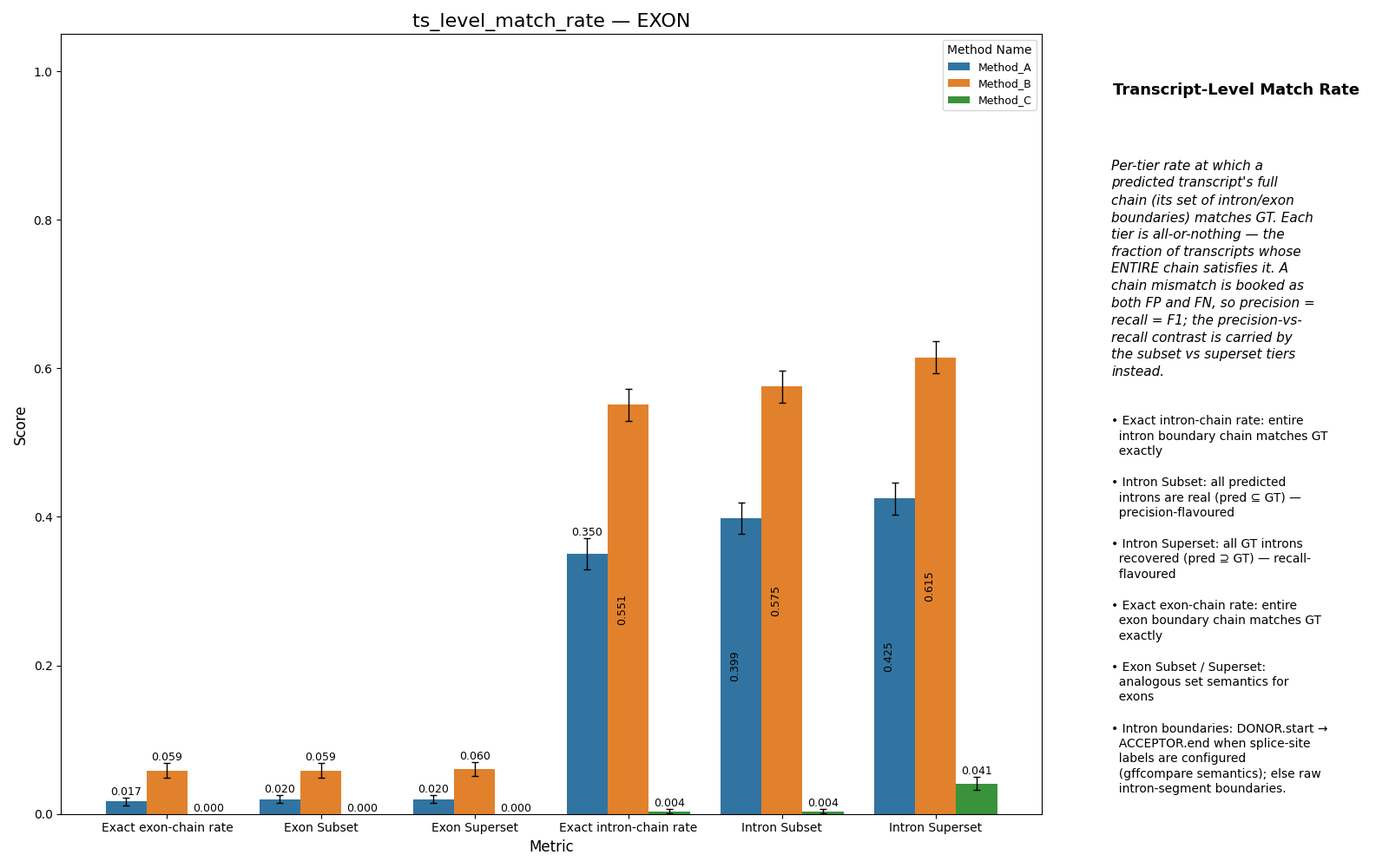
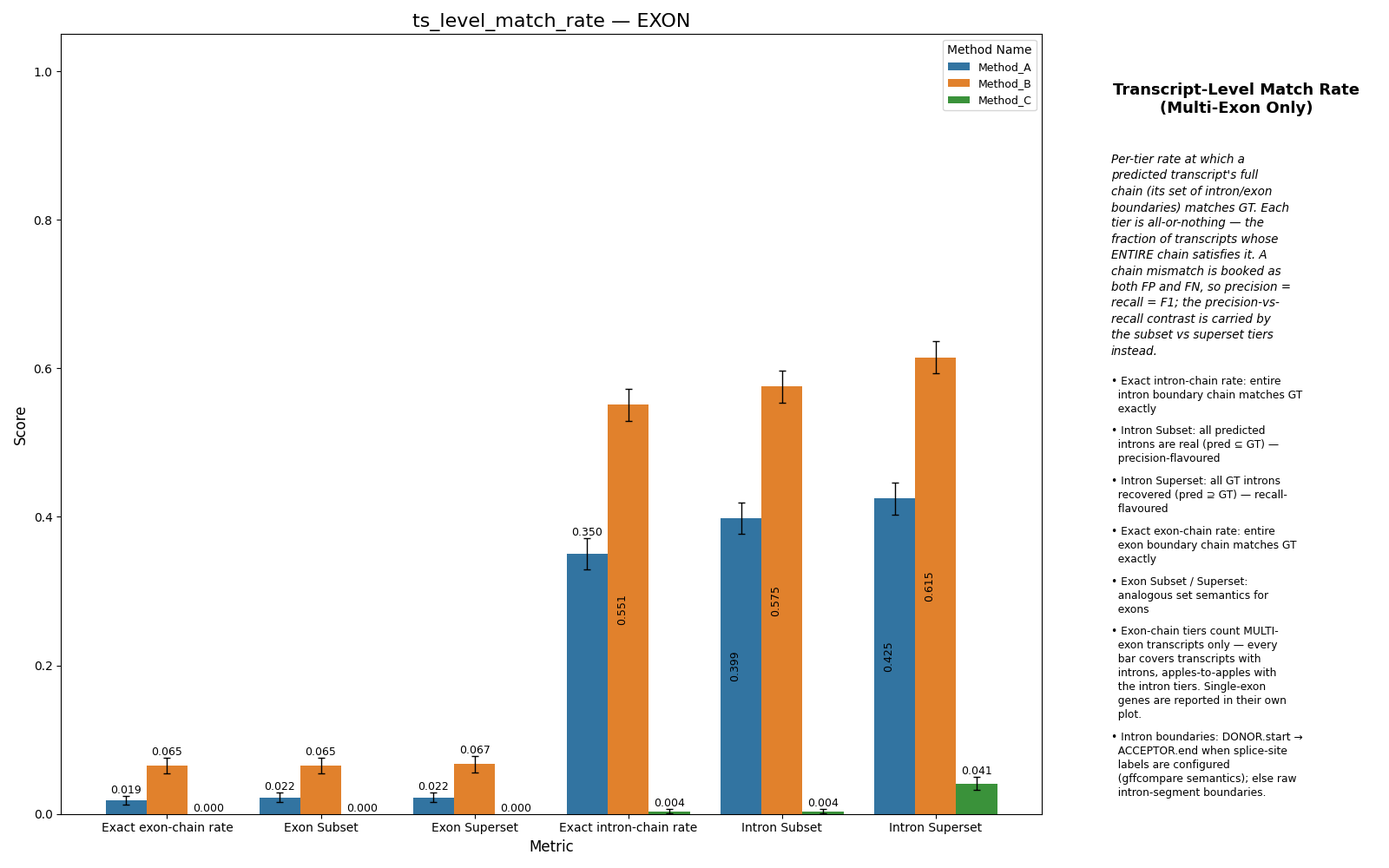
exclude single exon genes into seperate plot and keep exon chain to intron chain rates comparable

diff --git a/tests/benchmark_test_cases.py b/tests/benchmark_test_cases.py
@@ -297,7 +297,7 @@ STRUCTURAL_COHERENCE_TEST_CASES = [
         BEND_LABEL_CONFIG,
         [EvalMetrics.STRUCTURAL_COHERENCE],
         {
-            "STRUCTURAL_COHERENCE": {"exon_chain": {"tp": 1, "fp": 0, "fn": 0, "tn": 0}, "exon_chain_subset": {"tp": 1, "fp": 0, "fn": 0, "tn": 0}, "exon_chain_superset": {"tp": 1, "fp": 0, "fn": 0, "tn": 0}, "boundary_shift_count": 0, "boundary_shift_total": 0, "boundary_shift_offsets": [], "exon_recall_per_transcript": 1.0, "exon_precision_per_transcript": 1.0, "false_exon_count_per_transcript": 0, "transcript_match_class": 'exact', "segment_count_delta": 0, "intron_chain": {"tp": 1, "fp": 0, "fn": 0, "tn": 0}, "intron_chain_subset": {"tp": 1, "fp": 0, "fn": 0, "tn": 0}, "intron_chain_superset": {"tp": 1, "fp": 0, "fn": 0, "tn": 0}, "splice_site_results": {"both_correct": 0, "donor_only": 0, "acceptor_only": 0, "neither": 0, "donor_tp": 0, "donor_fp": 0, "donor_fn": 0, "acceptor_tp": 0, "acceptor_fp": 0, "acceptor_fn": 0, "gt_malformed_junctions": 0, "pred_malformed_junctions": 0}},
+            "STRUCTURAL_COHERENCE": {"exon_chain": {"tp": 1, "fp": 0, "fn": 0, "tn": 0}, "exon_chain_subset": {"tp": 1, "fp": 0, "fn": 0, "tn": 0}, "exon_chain_superset": {"tp": 1, "fp": 0, "fn": 0, "tn": 0}, "exon_chain_multi": {"tp": 1, "fp": 0, "fn": 0, "tn": 0}, "exon_chain_multi_subset": {"tp": 1, "fp": 0, "fn": 0, "tn": 0}, "exon_chain_multi_superset": {"tp": 1, "fp": 0, "fn": 0, "tn": 0}, "exon_chain_single": {"tp": 0, "fp": 0, "fn": 0, "tn": 0}, "boundary_shift_count": 0, "boundary_shift_total": 0, "boundary_shift_offsets": [], "exon_recall_per_transcript": 1.0, "exon_precision_per_transcript": 1.0, "false_exon_count_per_transcript": 0, "transcript_match_class": 'exact', "segment_count_delta": 0, "intron_chain": {"tp": 1, "fp": 0, "fn": 0, "tn": 0}, "intron_chain_subset": {"tp": 1, "fp": 0, "fn": 0, "tn": 0}, "intron_chain_superset": {"tp": 1, "fp": 0, "fn": 0, "tn": 0}, "splice_site_results": {"both_correct": 0, "donor_only": 0, "acceptor_only": 0, "neither": 0, "donor_tp": 0, "donor_fp": 0, "donor_fn": 0, "acceptor_tp": 0, "acceptor_fp": 0, "acceptor_fn": 0, "gt_malformed_junctions": 0, "pred_malformed_junctions": 0}},
         },
         id='sc_exact_match',
     ),
@@ -306,7 +306,7 @@ STRUCTURAL_COHERENCE_TEST_CASES = [
         BEND_LABEL_CONFIG,
         [EvalMetrics.STRUCTURAL_COHERENCE],
         {
-            "STRUCTURAL_COHERENCE": {"exon_chain": {"tp": 0, "fp": 1, "fn": 1, "tn": 0}, "exon_chain_subset": {"tp": 0, "fp": 1, "fn": 1, "tn": 0}, "exon_chain_superset": {"tp": 0, "fp": 1, "fn": 1, "tn": 0}, "boundary_shift_count": 3, "boundary_shift_total": 3, "boundary_shift_offsets": [{"offset": -1, "position": "terminal"}, {"offset": -1, "position": "internal"}, {"offset": 1, "position": "terminal"}], "exon_recall_per_transcript": 0.0, "exon_precision_per_transcript": 0.0, "false_exon_count_per_transcript": 3, "transcript_match_class": 'boundary_shift_terminal', "segment_count_delta": 0, "intron_chain": {"tp": 0, "fp": 1, "fn": 1, "tn": 0}, "intron_chain_subset": {"tp": 0, "fp": 1, "fn": 1, "tn": 0}, "intron_chain_superset": {"tp": 0, "fp": 1, "fn": 1, "tn": 0}, "splice_site_results": {"both_correct": 0, "donor_only": 0, "acceptor_only": 0, "neither": 0, "donor_tp": 0, "donor_fp": 0, "donor_fn": 0, "acceptor_tp": 0, "acceptor_fp": 0, "acceptor_fn": 0, "gt_malformed_junctions": 0, "pred_malformed_junctions": 0}},
+            "STRUCTURAL_COHERENCE": {"exon_chain": {"tp": 0, "fp": 1, "fn": 1, "tn": 0}, "exon_chain_subset": {"tp": 0, "fp": 1, "fn": 1, "tn": 0}, "exon_chain_superset": {"tp": 0, "fp": 1, "fn": 1, "tn": 0}, "exon_chain_multi": {"tp": 0, "fp": 1, "fn": 1, "tn": 0}, "exon_chain_multi_subset": {"tp": 0, "fp": 1, "fn": 1, "tn": 0}, "exon_chain_multi_superset": {"tp": 0, "fp": 1, "fn": 1, "tn": 0}, "exon_chain_single": {"tp": 0, "fp": 0, "fn": 0, "tn": 0}, "boundary_shift_count": 3, "boundary_shift_total": 3, "boundary_shift_offsets": [{"offset": -1, "position": "terminal"}, {"offset": -1, "position": "internal"}, {"offset": 1, "position": "terminal"}], "exon_recall_per_transcript": 0.0, "exon_precision_per_transcript": 0.0, "false_exon_count_per_transcript": 3, "transcript_match_class": 'boundary_shift_terminal', "segment_count_delta": 0, "intron_chain": {"tp": 0, "fp": 1, "fn": 1, "tn": 0}, "intron_chain_subset": {"tp": 0, "fp": 1, "fn": 1, "tn": 0}, "intron_chain_superset": {"tp": 0, "fp": 1, "fn": 1, "tn": 0}, "splice_site_results": {"both_correct": 0, "donor_only": 0, "acceptor_only": 0, "neither": 0, "donor_tp": 0, "donor_fp": 0, "donor_fn": 0, "acceptor_tp": 0, "acceptor_fp": 0, "acceptor_fn": 0, "gt_malformed_junctions": 0, "pred_malformed_junctions": 0}},
         },
         id='sc_boundary_shift',
     ),
@@ -315,7 +315,7 @@ STRUCTURAL_COHERENCE_TEST_CASES = [
         BEND_LABEL_CONFIG,
         [EvalMetrics.STRUCTURAL_COHERENCE],
         {
-            "STRUCTURAL_COHERENCE": {"exon_chain": {"tp": 0, "fp": 1, "fn": 1, "tn": 0}, "exon_chain_subset": {"tp": 1, "fp": 0, "fn": 0, "tn": 0}, "exon_chain_superset": {"tp": 0, "fp": 1, "fn": 1, "tn": 0}, "boundary_shift_count": 0, "boundary_shift_total": 0, "boundary_shift_offsets": [], "exon_recall_per_transcript": 0.6666666666666666, "exon_precision_per_transcript": 1.0, "false_exon_count_per_transcript": 0, "transcript_match_class": 'missing_segments', "segment_count_delta": -1, "intron_chain": {"tp": 0, "fp": 1, "fn": 1, "tn": 0}, "intron_chain_subset": {"tp": 0, "fp": 1, "fn": 1, "tn": 0}, "intron_chain_superset": {"tp": 0, "fp": 1, "fn": 1, "tn": 0}, "splice_site_results": {"both_correct": 0, "donor_only": 0, "acceptor_only": 0, "neither": 0, "donor_tp": 0, "donor_fp": 0, "donor_fn": 0, "acceptor_tp": 0, "acceptor_fp": 0, "acceptor_fn": 0, "gt_malformed_junctions": 0, "pred_malformed_junctions": 0}},
+            "STRUCTURAL_COHERENCE": {"exon_chain": {"tp": 0, "fp": 1, "fn": 1, "tn": 0}, "exon_chain_subset": {"tp": 1, "fp": 0, "fn": 0, "tn": 0}, "exon_chain_superset": {"tp": 0, "fp": 1, "fn": 1, "tn": 0}, "exon_chain_multi": {"tp": 0, "fp": 1, "fn": 1, "tn": 0}, "exon_chain_multi_subset": {"tp": 1, "fp": 0, "fn": 0, "tn": 0}, "exon_chain_multi_superset": {"tp": 0, "fp": 1, "fn": 1, "tn": 0}, "exon_chain_single": {"tp": 0, "fp": 0, "fn": 0, "tn": 0}, "boundary_shift_count": 0, "boundary_shift_total": 0, "boundary_shift_offsets": [], "exon_recall_per_transcript": 0.6666666666666666, "exon_precision_per_transcript": 1.0, "false_exon_count_per_transcript": 0, "transcript_match_class": 'missing_segments', "segment_count_delta": -1, "intron_chain": {"tp": 0, "fp": 1, "fn": 1, "tn": 0}, "intron_chain_subset": {"tp": 0, "fp": 1, "fn": 1, "tn": 0}, "intron_chain_superset": {"tp": 0, "fp": 1, "fn": 1, "tn": 0}, "splice_site_results": {"both_correct": 0, "donor_only": 0, "acceptor_only": 0, "neither": 0, "donor_tp": 0, "donor_fp": 0, "donor_fn": 0, "acceptor_tp": 0, "acceptor_fp": 0, "acceptor_fn": 0, "gt_malformed_junctions": 0, "pred_malformed_junctions": 0}},
         },
         id='sc_missing_segments',
     ),
@@ -324,7 +324,7 @@ STRUCTURAL_COHERENCE_TEST_CASES = [
         BEND_LABEL_CONFIG,
         [EvalMetrics.STRUCTURAL_COHERENCE],
         {
-            "STRUCTURAL_COHERENCE": {"exon_chain": {"tp": 0, "fp": 1, "fn": 1, "tn": 0}, "exon_chain_subset": {"tp": 0, "fp": 1, "fn": 1, "tn": 0}, "exon_chain_superset": {"tp": 1, "fp": 0, "fn": 0, "tn": 0}, "boundary_shift_count": 0, "boundary_shift_total": 0, "boundary_shift_offsets": [], "exon_recall_per_transcript": 1.0, "exon_precision_per_transcript": 0.6666666666666666, "false_exon_count_per_transcript": 1, "transcript_match_class": 'extra_segments', "segment_count_delta": 1, "intron_chain": {"tp": 0, "fp": 1, "fn": 1, "tn": 0}, "intron_chain_subset": {"tp": 0, "fp": 1, "fn": 1, "tn": 0}, "intron_chain_superset": {"tp": 0, "fp": 1, "fn": 1, "tn": 0}, "splice_site_results": {"both_correct": 0, "donor_only": 0, "acceptor_only": 0, "neither": 0, "donor_tp": 0, "donor_fp": 0, "donor_fn": 0, "acceptor_tp": 0, "acceptor_fp": 0, "acceptor_fn": 0, "gt_malformed_junctions": 0, "pred_malformed_junctions": 0}},
+            "STRUCTURAL_COHERENCE": {"exon_chain": {"tp": 0, "fp": 1, "fn": 1, "tn": 0}, "exon_chain_subset": {"tp": 0, "fp": 1, "fn": 1, "tn": 0}, "exon_chain_superset": {"tp": 1, "fp": 0, "fn": 0, "tn": 0}, "exon_chain_multi": {"tp": 0, "fp": 1, "fn": 1, "tn": 0}, "exon_chain_multi_subset": {"tp": 0, "fp": 1, "fn": 1, "tn": 0}, "exon_chain_multi_superset": {"tp": 1, "fp": 0, "fn": 0, "tn": 0}, "exon_chain_single": {"tp": 0, "fp": 0, "fn": 0, "tn": 0}, "boundary_shift_count": 0, "boundary_shift_total": 0, "boundary_shift_offsets": [], "exon_recall_per_transcript": 1.0, "exon_precision_per_transcript": 0.6666666666666666, "false_exon_count_per_transcript": 1, "transcript_match_class": 'extra_segments', "segment_count_delta": 1, "intron_chain": {"tp": 0, "fp": 1, "fn": 1, "tn": 0}, "intron_chain_subset": {"tp": 0, "fp": 1, "fn": 1, "tn": 0}, "intron_chain_superset": {"tp": 0, "fp": 1, "fn": 1, "tn": 0}, "splice_site_results": {"both_correct": 0, "donor_only": 0, "acceptor_only": 0, "neither": 0, "donor_tp": 0, "donor_fp": 0, "donor_fn": 0, "acceptor_tp": 0, "acceptor_fp": 0, "acceptor_fn": 0, "gt_malformed_junctions": 0, "pred_malformed_junctions": 0}},
         },
         id='sc_extra_segments',
     ),
@@ -333,7 +333,7 @@ STRUCTURAL_COHERENCE_TEST_CASES = [
         BEND_LABEL_CONFIG,
         [EvalMetrics.STRUCTURAL_COHERENCE],
         {
-            "STRUCTURAL_COHERENCE": {"exon_chain": {"tp": 0, "fp": 1, "fn": 1, "tn": 0}, "exon_chain_subset": {"tp": 0, "fp": 1, "fn": 1, "tn": 0}, "exon_chain_superset": {"tp": 0, "fp": 1, "fn": 1, "tn": 0}, "boundary_shift_count": 0, "boundary_shift_total": 0, "boundary_shift_offsets": [], "exon_recall_per_transcript": 0.0, "exon_precision_per_transcript": 0.0, "false_exon_count_per_transcript": 2, "transcript_match_class": 'substitution', "segment_count_delta": -1, "intron_chain": {"tp": 0, "fp": 1, "fn": 1, "tn": 0}, "intron_chain_subset": {"tp": 0, "fp": 1, "fn": 1, "tn": 0}, "intron_chain_superset": {"tp": 0, "fp": 1, "fn": 1, "tn": 0}, "splice_site_results": {"both_correct": 0, "donor_only": 0, "acceptor_only": 0, "neither": 0, "donor_tp": 0, "donor_fp": 0, "donor_fn": 0, "acceptor_tp": 0, "acceptor_fp": 0, "acceptor_fn": 0, "gt_malformed_junctions": 0, "pred_malformed_junctions": 0}},
+            "STRUCTURAL_COHERENCE": {"exon_chain": {"tp": 0, "fp": 1, "fn": 1, "tn": 0}, "exon_chain_subset": {"tp": 0, "fp": 1, "fn": 1, "tn": 0}, "exon_chain_superset": {"tp": 0, "fp": 1, "fn": 1, "tn": 0}, "exon_chain_multi": {"tp": 0, "fp": 1, "fn": 1, "tn": 0}, "exon_chain_multi_subset": {"tp": 0, "fp": 1, "fn": 1, "tn": 0}, "exon_chain_multi_superset": {"tp": 0, "fp": 1, "fn": 1, "tn": 0}, "exon_chain_single": {"tp": 0, "fp": 0, "fn": 0, "tn": 0}, "boundary_shift_count": 0, "boundary_shift_total": 0, "boundary_shift_offsets": [], "exon_recall_per_transcript": 0.0, "exon_precision_per_transcript": 0.0, "false_exon_count_per_transcript": 2, "transcript_match_class": 'substitution', "segment_count_delta": -1, "intron_chain": {"tp": 0, "fp": 1, "fn": 1, "tn": 0}, "intron_chain_subset": {"tp": 0, "fp": 1, "fn": 1, "tn": 0}, "intron_chain_superset": {"tp": 0, "fp": 1, "fn": 1, "tn": 0}, "splice_site_results": {"both_correct": 0, "donor_only": 0, "acceptor_only": 0, "neither": 0, "donor_tp": 0, "donor_fp": 0, "donor_fn": 0, "acceptor_tp": 0, "acceptor_fp": 0, "acceptor_fn": 0, "gt_malformed_junctions": 0, "pred_malformed_junctions": 0}},
         },
         id='sc_structurally_different',
     ),
@@ -342,7 +342,7 @@ STRUCTURAL_COHERENCE_TEST_CASES = [
         BEND_LABEL_CONFIG,
         [EvalMetrics.STRUCTURAL_COHERENCE],
         {
-            "STRUCTURAL_COHERENCE": {"exon_chain": {"tp": 0, "fp": 1, "fn": 1, "tn": 0}, "exon_chain_subset": {"tp": 0, "fp": 1, "fn": 1, "tn": 0}, "exon_chain_superset": {"tp": 0, "fp": 1, "fn": 1, "tn": 0}, "boundary_shift_count": 0, "boundary_shift_total": 0, "boundary_shift_offsets": [], "exon_recall_per_transcript": 0.0, "exon_precision_per_transcript": 0.0, "false_exon_count_per_transcript": 0, "transcript_match_class": 'missed', "segment_count_delta": -2, "intron_chain": {"tp": 0, "fp": 1, "fn": 1, "tn": 0}, "intron_chain_subset": {"tp": 0, "fp": 1, "fn": 1, "tn": 0}, "intron_chain_superset": {"tp": 0, "fp": 1, "fn": 1, "tn": 0}, "splice_site_results": {"both_correct": 0, "donor_only": 0, "acceptor_only": 0, "neither": 0, "donor_tp": 0, "donor_fp": 0, "donor_fn": 0, "acceptor_tp": 0, "acceptor_fp": 0, "acceptor_fn": 0, "gt_malformed_junctions": 0, "pred_malformed_junctions": 0}},
+            "STRUCTURAL_COHERENCE": {"exon_chain": {"tp": 0, "fp": 1, "fn": 1, "tn": 0}, "exon_chain_subset": {"tp": 0, "fp": 1, "fn": 1, "tn": 0}, "exon_chain_superset": {"tp": 0, "fp": 1, "fn": 1, "tn": 0}, "exon_chain_multi": {"tp": 0, "fp": 1, "fn": 1, "tn": 0}, "exon_chain_multi_subset": {"tp": 0, "fp": 1, "fn": 1, "tn": 0}, "exon_chain_multi_superset": {"tp": 0, "fp": 1, "fn": 1, "tn": 0}, "exon_chain_single": {"tp": 0, "fp": 0, "fn": 0, "tn": 0}, "boundary_shift_count": 0, "boundary_shift_total": 0, "boundary_shift_offsets": [], "exon_recall_per_transcript": 0.0, "exon_precision_per_transcript": 0.0, "false_exon_count_per_transcript": 0, "transcript_match_class": 'missed', "segment_count_delta": -2, "intron_chain": {"tp": 0, "fp": 1, "fn": 1, "tn": 0}, "intron_chain_subset": {"tp": 0, "fp": 1, "fn": 1, "tn": 0}, "intron_chain_superset": {"tp": 0, "fp": 1, "fn": 1, "tn": 0}, "splice_site_results": {"both_correct": 0, "donor_only": 0, "acceptor_only": 0, "neither": 0, "donor_tp": 0, "donor_fp": 0, "donor_fn": 0, "acceptor_tp": 0, "acceptor_fp": 0, "acceptor_fn": 0, "gt_malformed_junctions": 0, "pred_malformed_junctions": 0}},
         },
         id='sc_missed',
     ),
@@ -360,7 +360,7 @@ STRUCTURAL_COHERENCE_TEST_CASES = [
         BEND_LABEL_CONFIG,
         [EvalMetrics.STRUCTURAL_COHERENCE],
         {
-            "STRUCTURAL_COHERENCE": {"exon_chain": {"tp": 0, "fp": 1, "fn": 1, "tn": 0}, "exon_chain_subset": {"tp": 0, "fp": 1, "fn": 1, "tn": 0}, "exon_chain_superset": {"tp": 0, "fp": 1, "fn": 1, "tn": 0}, "boundary_shift_count": 0, "boundary_shift_total": 0, "boundary_shift_offsets": [], "exon_recall_per_transcript": 0.5, "exon_precision_per_transcript": 0.6, "false_exon_count_per_transcript": 2, "transcript_match_class": 'partial_overlap', "segment_count_delta": -1, "intron_chain": {"tp": 0, "fp": 1, "fn": 1, "tn": 0}, "intron_chain_subset": {"tp": 0, "fp": 1, "fn": 1, "tn": 0}, "intron_chain_superset": {"tp": 0, "fp": 1, "fn": 1, "tn": 0}, "splice_site_results": {"both_correct": 0, "donor_only": 0, "acceptor_only": 0, "neither": 0, "donor_tp": 0, "donor_fp": 0, "donor_fn": 0, "acceptor_tp": 0, "acceptor_fp": 0, "acceptor_fn": 0, "gt_malformed_junctions": 0, "pred_malformed_junctions": 0}},
+            "STRUCTURAL_COHERENCE": {"exon_chain": {"tp": 0, "fp": 1, "fn": 1, "tn": 0}, "exon_chain_subset": {"tp": 0, "fp": 1, "fn": 1, "tn": 0}, "exon_chain_superset": {"tp": 0, "fp": 1, "fn": 1, "tn": 0}, "exon_chain_multi": {"tp": 0, "fp": 1, "fn": 1, "tn": 0}, "exon_chain_multi_subset": {"tp": 0, "fp": 1, "fn": 1, "tn": 0}, "exon_chain_multi_superset": {"tp": 0, "fp": 1, "fn": 1, "tn": 0}, "exon_chain_single": {"tp": 0, "fp": 0, "fn": 0, "tn": 0}, "boundary_shift_count": 0, "boundary_shift_total": 0, "boundary_shift_offsets": [], "exon_recall_per_transcript": 0.5, "exon_precision_per_transcript": 0.6, "false_exon_count_per_transcript": 2, "transcript_match_class": 'partial_overlap', "segment_count_delta": -1, "intron_chain": {"tp": 0, "fp": 1, "fn": 1, "tn": 0}, "intron_chain_subset": {"tp": 0, "fp": 1, "fn": 1, "tn": 0}, "intron_chain_superset": {"tp": 0, "fp": 1, "fn": 1, "tn": 0}, "splice_site_results": {"both_correct": 0, "donor_only": 0, "acceptor_only": 0, "neither": 0, "donor_tp": 0, "donor_fp": 0, "donor_fn": 0, "acceptor_tp": 0, "acceptor_fp": 0, "acceptor_fn": 0, "gt_malformed_junctions": 0, "pred_malformed_junctions": 0}},
         },
         id='sc_six_exon_mixed_errors',
     ),
@@ -369,7 +369,7 @@ STRUCTURAL_COHERENCE_TEST_CASES = [
         BEND_LABEL_CONFIG,
         [EvalMetrics.STRUCTURAL_COHERENCE],
         {
-            "STRUCTURAL_COHERENCE": {"exon_chain": {"tp": 1, "fp": 0, "fn": 0, "tn": 0}, "exon_chain_subset": {"tp": 1, "fp": 0, "fn": 0, "tn": 0}, "exon_chain_superset": {"tp": 1, "fp": 0, "fn": 0, "tn": 0}, "boundary_shift_count": 0, "boundary_shift_total": 0, "boundary_shift_offsets": [], "exon_recall_per_transcript": 1.0, "exon_precision_per_transcript": 1.0, "false_exon_count_per_transcript": 0, "transcript_match_class": 'exact', "segment_count_delta": 0, "intron_chain": {"tp": 0, "fp": 0, "fn": 0, "tn": 0}, "intron_chain_subset": {"tp": 0, "fp": 0, "fn": 0, "tn": 0}, "intron_chain_superset": {"tp": 0, "fp": 0, "fn": 0, "tn": 0}, "splice_site_results": {"both_correct": 0, "donor_only": 0, "acceptor_only": 0, "neither": 0, "donor_tp": 0, "donor_fp": 0, "donor_fn": 0, "acceptor_tp": 0, "acceptor_fp": 0, "acceptor_fn": 0, "gt_malformed_junctions": 0, "pred_malformed_junctions": 0}},
+            "STRUCTURAL_COHERENCE": {"exon_chain": {"tp": 1, "fp": 0, "fn": 0, "tn": 0}, "exon_chain_subset": {"tp": 1, "fp": 0, "fn": 0, "tn": 0}, "exon_chain_superset": {"tp": 1, "fp": 0, "fn": 0, "tn": 0}, "exon_chain_multi": {"tp": 0, "fp": 0, "fn": 0, "tn": 0}, "exon_chain_multi_subset": {"tp": 0, "fp": 0, "fn": 0, "tn": 0}, "exon_chain_multi_superset": {"tp": 0, "fp": 0, "fn": 0, "tn": 0}, "exon_chain_single": {"tp": 1, "fp": 0, "fn": 0, "tn": 0}, "boundary_shift_count": 0, "boundary_shift_total": 0, "boundary_shift_offsets": [], "exon_recall_per_transcript": 1.0, "exon_precision_per_transcript": 1.0, "false_exon_count_per_transcript": 0, "transcript_match_class": 'exact', "segment_count_delta": 0, "intron_chain": {"tp": 0, "fp": 0, "fn": 0, "tn": 0}, "intron_chain_subset": {"tp": 0, "fp": 0, "fn": 0, "tn": 0}, "intron_chain_superset": {"tp": 0, "fp": 0, "fn": 0, "tn": 0}, "splice_site_results": {"both_correct": 0, "donor_only": 0, "acceptor_only": 0, "neither": 0, "donor_tp": 0, "donor_fp": 0, "donor_fn": 0, "acceptor_tp": 0, "acceptor_fp": 0, "acceptor_fn": 0, "gt_malformed_junctions": 0, "pred_malformed_junctions": 0}},
         },
         id='sc_single_segment',
     ),
@@ -378,7 +378,7 @@ STRUCTURAL_COHERENCE_TEST_CASES = [
         BEND_LABEL_CONFIG,
         [EvalMetrics.STRUCTURAL_COHERENCE],
         {
-            "STRUCTURAL_COHERENCE": {"exon_chain": {"tp": 1, "fp": 0, "fn": 0, "tn": 0}, "exon_chain_subset": {"tp": 1, "fp": 0, "fn": 0, "tn": 0}, "exon_chain_superset": {"tp": 1, "fp": 0, "fn": 0, "tn": 0}, "boundary_shift_count": 0, "boundary_shift_total": 0, "boundary_shift_offsets": [], "exon_recall_per_transcript": 1.0, "exon_precision_per_transcript": 1.0, "false_exon_count_per_transcript": 0, "transcript_match_class": 'exact', "segment_count_delta": 0, "intron_chain": {"tp": 1, "fp": 0, "fn": 0, "tn": 0}, "intron_chain_subset": {"tp": 1, "fp": 0, "fn": 0, "tn": 0}, "intron_chain_superset": {"tp": 1, "fp": 0, "fn": 0, "tn": 0}, "splice_site_results": {"both_correct": 1, "donor_only": 0, "acceptor_only": 0, "neither": 0, "donor_tp": 1, "donor_fp": 0, "donor_fn": 0, "acceptor_tp": 1, "acceptor_fp": 0, "acceptor_fn": 0, "gt_malformed_junctions": 0, "pred_malformed_junctions": 0}},
+            "STRUCTURAL_COHERENCE": {"exon_chain": {"tp": 1, "fp": 0, "fn": 0, "tn": 0}, "exon_chain_subset": {"tp": 1, "fp": 0, "fn": 0, "tn": 0}, "exon_chain_superset": {"tp": 1, "fp": 0, "fn": 0, "tn": 0}, "exon_chain_multi": {"tp": 1, "fp": 0, "fn": 0, "tn": 0}, "exon_chain_multi_subset": {"tp": 1, "fp": 0, "fn": 0, "tn": 0}, "exon_chain_multi_superset": {"tp": 1, "fp": 0, "fn": 0, "tn": 0}, "exon_chain_single": {"tp": 0, "fp": 0, "fn": 0, "tn": 0}, "boundary_shift_count": 0, "boundary_shift_total": 0, "boundary_shift_offsets": [], "exon_recall_per_transcript": 1.0, "exon_precision_per_transcript": 1.0, "false_exon_count_per_transcript": 0, "transcript_match_class": 'exact', "segment_count_delta": 0, "intron_chain": {"tp": 1, "fp": 0, "fn": 0, "tn": 0}, "intron_chain_subset": {"tp": 1, "fp": 0, "fn": 0, "tn": 0}, "intron_chain_superset": {"tp": 1, "fp": 0, "fn": 0, "tn": 0}, "splice_site_results": {"both_correct": 1, "donor_only": 0, "acceptor_only": 0, "neither": 0, "donor_tp": 1, "donor_fp": 0, "donor_fn": 0, "acceptor_tp": 1, "acceptor_fp": 0, "acceptor_fn": 0, "gt_malformed_junctions": 0, "pred_malformed_junctions": 0}},
         },
         id='splice_site_confusion',
     ),

diff --git a/src/dna_segmentation_benchmark/plotting/summary_stat_plotting.py b/src/dna_segmentation_benchmark/plotting/summary_stat_plotting.py
@@ -381,17 +381,20 @@ def compare_multiple_predictions(
 
             # Combined match-rate overview — one figure (x = tier, hue = method),
             # reusing plot_ml_metrics_bar.
-            _PR_KEYS = ("intron_chain", "intron_chain_subset", "intron_chain_superset", "exon_chain", "exon_chain_superset", "exon_chain_subset")
+            _PR_KEYS = ("intron_chain", "intron_chain_subset", "intron_chain_superset", "exon_chain_multi", "exon_chain_multi_superset", "exon_chain_multi_subset")
             # These are whole-chain, all-or-nothing rates (fraction of transcripts
             # whose entire chain matches), NOT per-junction Sn/Sp — the "rate"
-            # wording keeps that distinction explicit.
+            # wording keeps that distinction explicit.  The exon-chain tiers use
+            # the multi-exon-only variants so every bar covers transcripts with
+            # introns (apples-to-apples with the intron tiers, which are already
+            # multi-exon-only); single-exon genes get their own plot below.
             _PR_DISPLAY = {
                 "intron_chain": "Exact intron-chain rate",
                 "intron_chain_subset": "Intron Subset",
                 "intron_chain_superset": "Intron Superset",
-                "exon_chain": "Exact exon-chain rate",
-                "exon_chain_superset": "Exon Superset",
-                "exon_chain_subset": "Exon Subset",
+                "exon_chain_multi": "Exact exon-chain rate",
+                "exon_chain_multi_superset": "Exon Superset",
+                "exon_chain_multi_subset": "Exon Subset",
             }
             _method_scores: dict[str, dict] = {}
             for _, _row in df_sc_scope.iterrows():
@@ -433,6 +436,35 @@ def compare_multiple_predictions(
                 )
                 for _fig in _pr_figs.values():
                     figures[_figure_key("transcript_match_rate", scope, default_scope)] = _fig
+
+            # Single-exon genes — separate view.  These have no introns, so they
+            # are excluded from every tier above; here we just report how often
+            # the single coding exon is exactly right (a sub-category of boundary
+            # exactness).  One bar per method, reusing plot_ml_metrics_bar.
+            _single_rows = []
+            for _, _row in df_sc_scope.iterrows():
+                if _row["metric_key"] == "exon_chain_single" and isinstance(_row["value"], dict):
+                    _v = _row["value"]
+                    _vals = {"Single-exon exact match": _v.get("precision", 0.0)}
+                    _se = _v.get("precision_stderr")
+                    if _se is not None:
+                        _vals["Single-exon exact match_stderr"] = _se
+                    _single_rows.append(
+                        {
+                            "method_name": _row["method_name"],
+                            "metric_group": EvalMetrics.STRUCTURAL_COHERENCE.name,
+                            "metric_key": "single_exon_match_rate",
+                            "value": _vals,
+                        }
+                    )
+            if _single_rows:
+                _df_single = pd.DataFrame(_single_rows)
+                _single_prefix = (output_dir / f"transcript_match_rate{'' if scope == default_scope else f'_{scope}'}") if output_dir else None
+                _single_figs = plot_ml_metrics_bar(
+                    _df_single, class_name, save_path_prefix=_single_prefix, metadata_map=PLOT_METADATA
+                )
+                for _fig in _single_figs.values():
+                    figures[_figure_key("single_exon_match_rate", scope, default_scope)] = _fig
 
             fig = plot_transcript_match_distribution(
                 df_sc_scope,

diff --git a/tests/test_chain_metrics.py b/tests/test_chain_metrics.py
@@ -231,3 +231,61 @@ def test_large_array_gap_cutoff_falls_back_without_clear_mode_split():
     )
 
     assert cutoff == 200
+
+
+# ---------------------------------------------------------------------------
+# Single-exon vs multi-exon exon-chain split
+# ---------------------------------------------------------------------------
+
+
+def test_single_exon_routes_to_single_bucket_only():
+    """A single-exon transcript scores exon_chain_single; multi buckets stay empty."""
+    res = _chain([(10, 49)], [(10, 49)])
+    assert res["exon_chain_single"] == res["exon_chain"]
+    assert res["exon_chain_multi"] == Counts()
+    assert res["exon_chain_multi_subset"] == Counts()
+    assert res["exon_chain_multi_superset"] == Counts()
+
+
+def test_multi_exon_routes_to_multi_buckets_only():
+    """A multi-exon transcript scores the exon_chain_multi tiers; single stays empty."""
+    gt = [(10, 19), (40, 59), (90, 109)]
+    pred = [(10, 19), (40, 61), (90, 109)]  # one shifted exon -> chain mismatch
+    res = _chain(gt, pred)
+    assert res["exon_chain_multi"] == res["exon_chain"]
+    assert res["exon_chain_multi_subset"] == res["exon_chain_subset"]
+    assert res["exon_chain_multi_superset"] == res["exon_chain_superset"]
+    assert res["exon_chain_single"] == Counts()
+
+
+@pytest.mark.parametrize(
+    "gt, pred",
+    [
+        ([(10, 49)], [(10, 49)]),                              # single, match
+        ([(10, 49)], [(10, 51)]),                              # single, mismatch
+        ([(10, 19), (40, 59), (90, 109)], [(10, 19), (40, 59), (90, 109)]),  # multi, match
+        ([(10, 19), (40, 59), (90, 109)], [(10, 19), (40, 61), (90, 109)]),  # multi, mismatch
+    ],
+)
+def test_single_plus_multi_reconstructs_exon_chain(gt, pred):
+    """exon_chain_single + exon_chain_multi == exon_chain (exact tier) per pair."""
+    res = _chain(gt, pred)
+    assert res["exon_chain_single"] + res["exon_chain_multi"] == res["exon_chain"]
+
+
+def test_combined_single_and_multi_exon_buckets_do_not_bleed():
+    """Accumulated counts: single-exon hit + multi-exon miss stay in separate buckets."""
+    # single-exon, exact match → exon_chain_single tp=1, exon_chain_multi empty
+    single_hit = _chain([(10, 49)], [(10, 49)])
+    # multi-exon, shifted boundary → exon_chain_multi fp=1/fn=1, exon_chain_single empty
+    multi_miss = _chain([(10, 19), (40, 59)], [(10, 19), (40, 61)])
+
+    combined_single = single_hit["exon_chain_single"] + multi_miss["exon_chain_single"]
+    combined_multi = single_hit["exon_chain_multi"] + multi_miss["exon_chain_multi"]
+    combined_total = single_hit["exon_chain"] + multi_miss["exon_chain"]
+
+    # buckets are disjoint: only single contributed a tp, only multi contributed fp/fn
+    assert combined_single == Counts(tp=1)
+    assert combined_multi == Counts(fp=1, fn=1)
+    # additive: the two buckets reconstruct the overall chain count
+    assert combined_single + combined_multi == combined_total

diff --git a/src/dna_segmentation_benchmark/plotting/config.py b/src/dna_segmentation_benchmark/plotting/config.py
@@ -210,7 +210,7 @@ PLOT_METADATA: dict[str, PlotMetadata] = {
         "(array-3' positive), not strand-resolved.",
     ),
     "ts_level_match_rate": PlotMetadata(
-        display_name="Transcript-Level Match Rate",
+        display_name="Transcript-Level Match Rate (Multi-Exon Only)",
         description="Per-tier rate at which a predicted transcript's full chain (its set "
         "of intron/exon boundaries) matches GT. Each tier is all-or-nothing — the fraction "
         "of transcripts whose ENTIRE chain satisfies it. A chain mismatch is booked as both FP "
@@ -222,8 +222,23 @@ PLOT_METADATA: dict[str, PlotMetadata] = {
             "Intron Superset: all GT introns recovered (pred ⊇ GT) — recall-flavoured",
             "Exact exon-chain rate: entire exon boundary chain matches GT exactly",
             "Exon Subset / Superset: analogous set semantics for exons",
+            "Exon-chain tiers count MULTI-exon transcripts only — every bar covers "
+            "transcripts with introns, apples-to-apples with the intron tiers. "
+            "Single-exon genes are reported in their own plot.",
             "Intron boundaries: DONOR.start → ACCEPTOR.end when splice-site labels are "
             "configured (gffcompare semantics); else raw intron-segment boundaries.",
+        ),
+    ),
+    "single_exon_match_rate": PlotMetadata(
+        display_name="Single-Exon Gene Match Rate",
+        description="Fraction of single-exon genes whose single coding segment exactly matches GT "
+        "(start and end both correct). Single-exon transcripts have no introns, so they are "
+        "excluded from the multi-exon chain tiers; this plot reports them on their own. It is a "
+        "sub-category of boundary exactness, surfaced separately so it does not dilute the "
+        "multi-exon chain rates.",
+        bullet_points=(
+            "Single-exon exact match: the one coding segment's (start, end) equals GT exactly",
+            "All-or-nothing per gene, so precision = recall = F1 (the representative match rate)",
         ),
     ),
     "transcript_match": PlotMetadata(

diff --git a/src/dna_segmentation_benchmark/eval/chain_comparison.py b/src/dna_segmentation_benchmark/eval/chain_comparison.py
@@ -178,10 +178,21 @@ def compute_scoped_chain_metrics(
     subset = bool(pred_set) and pred_set <= gt_set
     superset = bool(pred_set) and pred_set >= gt_set
 
+    is_single_exon = len(gt_segs) == 1
     chain_metrics = {
         "exon_chain": Counts(tp=1) if exact else Counts(fp=1, fn=1),
         "exon_chain_subset": Counts(tp=1) if subset else Counts(fp=1, fn=1),
         "exon_chain_superset": Counts(tp=1) if superset else Counts(fp=1, fn=1),
+        # Population-split siblings (additive): the exon_chain* keys above stay
+        # all-transcript; these partition the same per-pair result by single- vs
+        # multi-exon GT.  The inapplicable bucket is empty Counts so each rate's
+        # denominator covers only its population — the same idiom
+        # compute_intron_chain_metrics uses to drop single-exon pairs.  Single-
+        # exon gets the exact tier only.
+        "exon_chain_multi": Counts() if is_single_exon else (Counts(tp=1) if exact else Counts(fp=1, fn=1)),
+        "exon_chain_multi_subset": Counts() if is_single_exon else (Counts(tp=1) if subset else Counts(fp=1, fn=1)),
+        "exon_chain_multi_superset": Counts() if is_single_exon else (Counts(tp=1) if superset else Counts(fp=1, fn=1)),
+        "exon_chain_single": (Counts(tp=1) if exact else Counts(fp=1, fn=1)) if is_single_exon else Counts(),
     }
     chain_metrics.update(_compute_boundary_shift_from_segments(gt_segs, pred_segs))
     chain_metrics.update(_compute_exon_recovery_from_segments(gt_segs, pred_segs))

diff --git a/src/dna_segmentation_benchmark/eval/accumulators.py b/src/dna_segmentation_benchmark/eval/accumulators.py
@@ -388,6 +388,10 @@ class StructuralAccumulator:
         "exon_chain",
         "exon_chain_subset",
         "exon_chain_superset",
+        "exon_chain_multi",
+        "exon_chain_multi_subset",
+        "exon_chain_multi_superset",
+        "exon_chain_single",
     )
     INTRON_CHAIN_KEYS: ClassVar[tuple] = (
         "intron_chain",

diff --git a/docs/metrics/structural_coherence.md b/docs/metrics/structural_coherence.md
@@ -7,7 +7,7 @@ transcript-level structure as the ground truth.
 
 ---
 
-## Intron/Exon Chain Match Rate
+## Intron/Exon Chain Match Rate (Multi-Exon Only)
 
 Chain metrics measure whether the complete set of intron or exon boundaries in
 a predicted transcript matches the ground truth. For each chain type the
@@ -21,6 +21,12 @@ benchmark reports three sibling metrics:
 - `{chain}_superset` — true when the predicted set is a superset of GT (every
   GT boundary is recovered). This is recall-oriented: it penalises missed
   boundaries.
+
+**Population scope:** the exon-chain tiers (`exon_chain_multi`,
+`exon_chain_multi_subset`, `exon_chain_multi_superset`) cover **multi-exon
+transcripts only**, keeping them apples-to-apples with the intron-chain tiers
+(which are inherently multi-exon). Single-exon genes are reported separately
+— see [Single-Exon Match Rate](#single-exon-gene-match-rate) below.
 
 For a single (GT, prediction) pair the strict metric is all-or-nothing:
 
@@ -72,7 +78,25 @@ enable intron inference at the public entry points (e.g. pass
 `infer_introns=True` to `benchmark_gt_vs_pred_single` /
 `benchmark_gt_vs_pred_multiple`).
 
-![Intron/exon chain match rate](../images/transcript_match_rate.png)
+![Intron/exon chain match rate (multi-exon only)](../images/transcript_match_rate.png)
+
+---
+
+## Single-Exon Gene Match Rate
+
+Single-exon transcripts have no introns, so they are excluded from all
+chain-tier plots above. The single-exon match rate reports how often the one
+coding segment's `(start, end)` matches GT exactly — an all-or-nothing
+boundary check surfaced in its own plot so it does not dilute the multi-exon
+chain rates.
+
+Because a chain mismatch is booked as both FP and FN, precision = recall = F1
+here too; one representative match rate is reported per method.
+
+The key accumulated is `exon_chain_single`; single-exon pairs contribute
+nothing to `exon_chain_multi*` and vice versa.
+
+![Single-exon gene match rate](../images/single_exon_match_rate.png)
 
 ---
 
